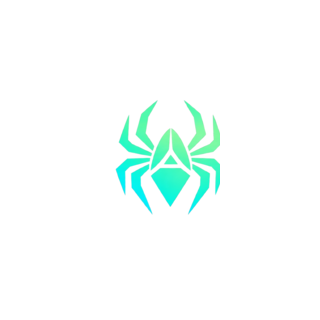
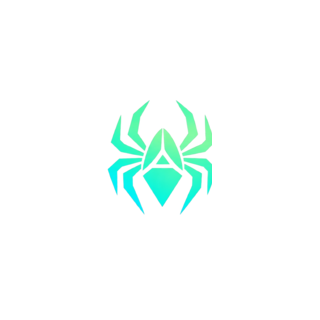
fix: refine Aranea alignment and bar restraint

Changed region(s): [[0.3438, 0.3125, 0.6875, 0.6875]]

diff --git a/plugins/araneadev.bar/Bar.qml b/plugins/araneadev.bar/Bar.qml
@@ -1272,10 +1272,12 @@ Item {
       visible: !root.vertical && !root.transparent
       anchors.left: parent.left
       anchors.right: parent.right
+      anchors.leftMargin: Style.space(8)
+      anchors.rightMargin: Style.space(8)
       anchors.bottom: parent.bottom
       height: 1
       color: Color.accent
-      opacity: 0.72
+      opacity: 0.22
     }
 
     Loader {
@@ -1366,40 +1368,40 @@ Item {
         BorderSurface {
           id: leftSurface
           anchors.left: parent.left
-          anchors.leftMargin: Style.space(6)
+          anchors.leftMargin: Style.space(8)
           anchors.verticalCenter: parent.verticalCenter
           width: leftModules.width + Style.space(12)
-          height: root.barSize - Style.space(6)
-          color: Color.bar.background
-          borderSpec: Border.flat(Color.accent, 1)
+          height: root.barSize - Style.space(8)
+          color: Color.background
+          borderSpec: Border.none()
           radius: height / 2
-          opacity: 0.94
+          opacity: 0.62
         }
 
         LeftModules {
           id: leftModules
           anchors.left: leftSurface.left
-          anchors.leftMargin: Style.space(6)
+          anchors.leftMargin: Style.space(7)
           anchors.verticalCenter: parent.verticalCenter
         }
 
         BorderSurface {
           id: rightSurface
           anchors.right: parent.right
-          anchors.rightMargin: Style.space(6)
+          anchors.rightMargin: Style.space(8)
           anchors.verticalCenter: parent.verticalCenter
           width: rightModules.width + Style.space(12)
-          height: root.barSize - Style.space(6)
-          color: Color.bar.background
-          borderSpec: Border.flat(Color.accent, 1)
+          height: root.barSize - Style.space(8)
+          color: Color.background
+          borderSpec: Border.none()
           radius: height / 2
-          opacity: 0.94
+          opacity: 0.62
         }
 
         RightModules {
           id: rightModules
           anchors.right: rightSurface.right
-          anchors.rightMargin: Style.space(6)
+          anchors.rightMargin: Style.space(7)
           anchors.verticalCenter: parent.verticalCenter
         }
 
@@ -1407,11 +1409,11 @@ Item {
           id: centerSurface
           anchors.centerIn: parent
           width: Style.space(190)
-          height: root.barSize - Style.space(6)
-          color: Color.bar.background
-          borderSpec: Border.flat(Color.accent, 1)
+          height: root.barSize - Style.space(8)
+          color: Color.background
+          borderSpec: Border.none()
           radius: height / 2
-          opacity: 0.94
+          opacity: 0.62
         }
 
         Item {

diff --git a/plugins/araneadev.menu/BarWidget.qml b/plugins/araneadev.menu/BarWidget.qml
@@ -15,7 +15,7 @@ BarWidget {
     bar: root.bar
     text: " "
     labelVisible: false
-    fixedWidth: 34
+    fixedWidth: 30
     fixedHeight: root.bar ? root.bar.barSize : 32
     horizontalMargin: 0
     verticalPadding: 0
@@ -23,10 +23,11 @@ BarWidget {
 
     Image {
       anchors.centerIn: parent
-      width: 20
-      height: 20
+      anchors.verticalCenterOffset: -3
+      width: 16
+      height: 16
       source: "file://" + Quickshell.env("HOME") + "/.local/state/omarchy/current/theme/unlock.png"
-      sourceClipRect: Qt.rect(56, 56, 144, 144)
+      sourceClipRect: Qt.rect(96, 85, 128, 144)
       fillMode: Image.PreserveAspectFit
       smooth: true
       mipmap: true
